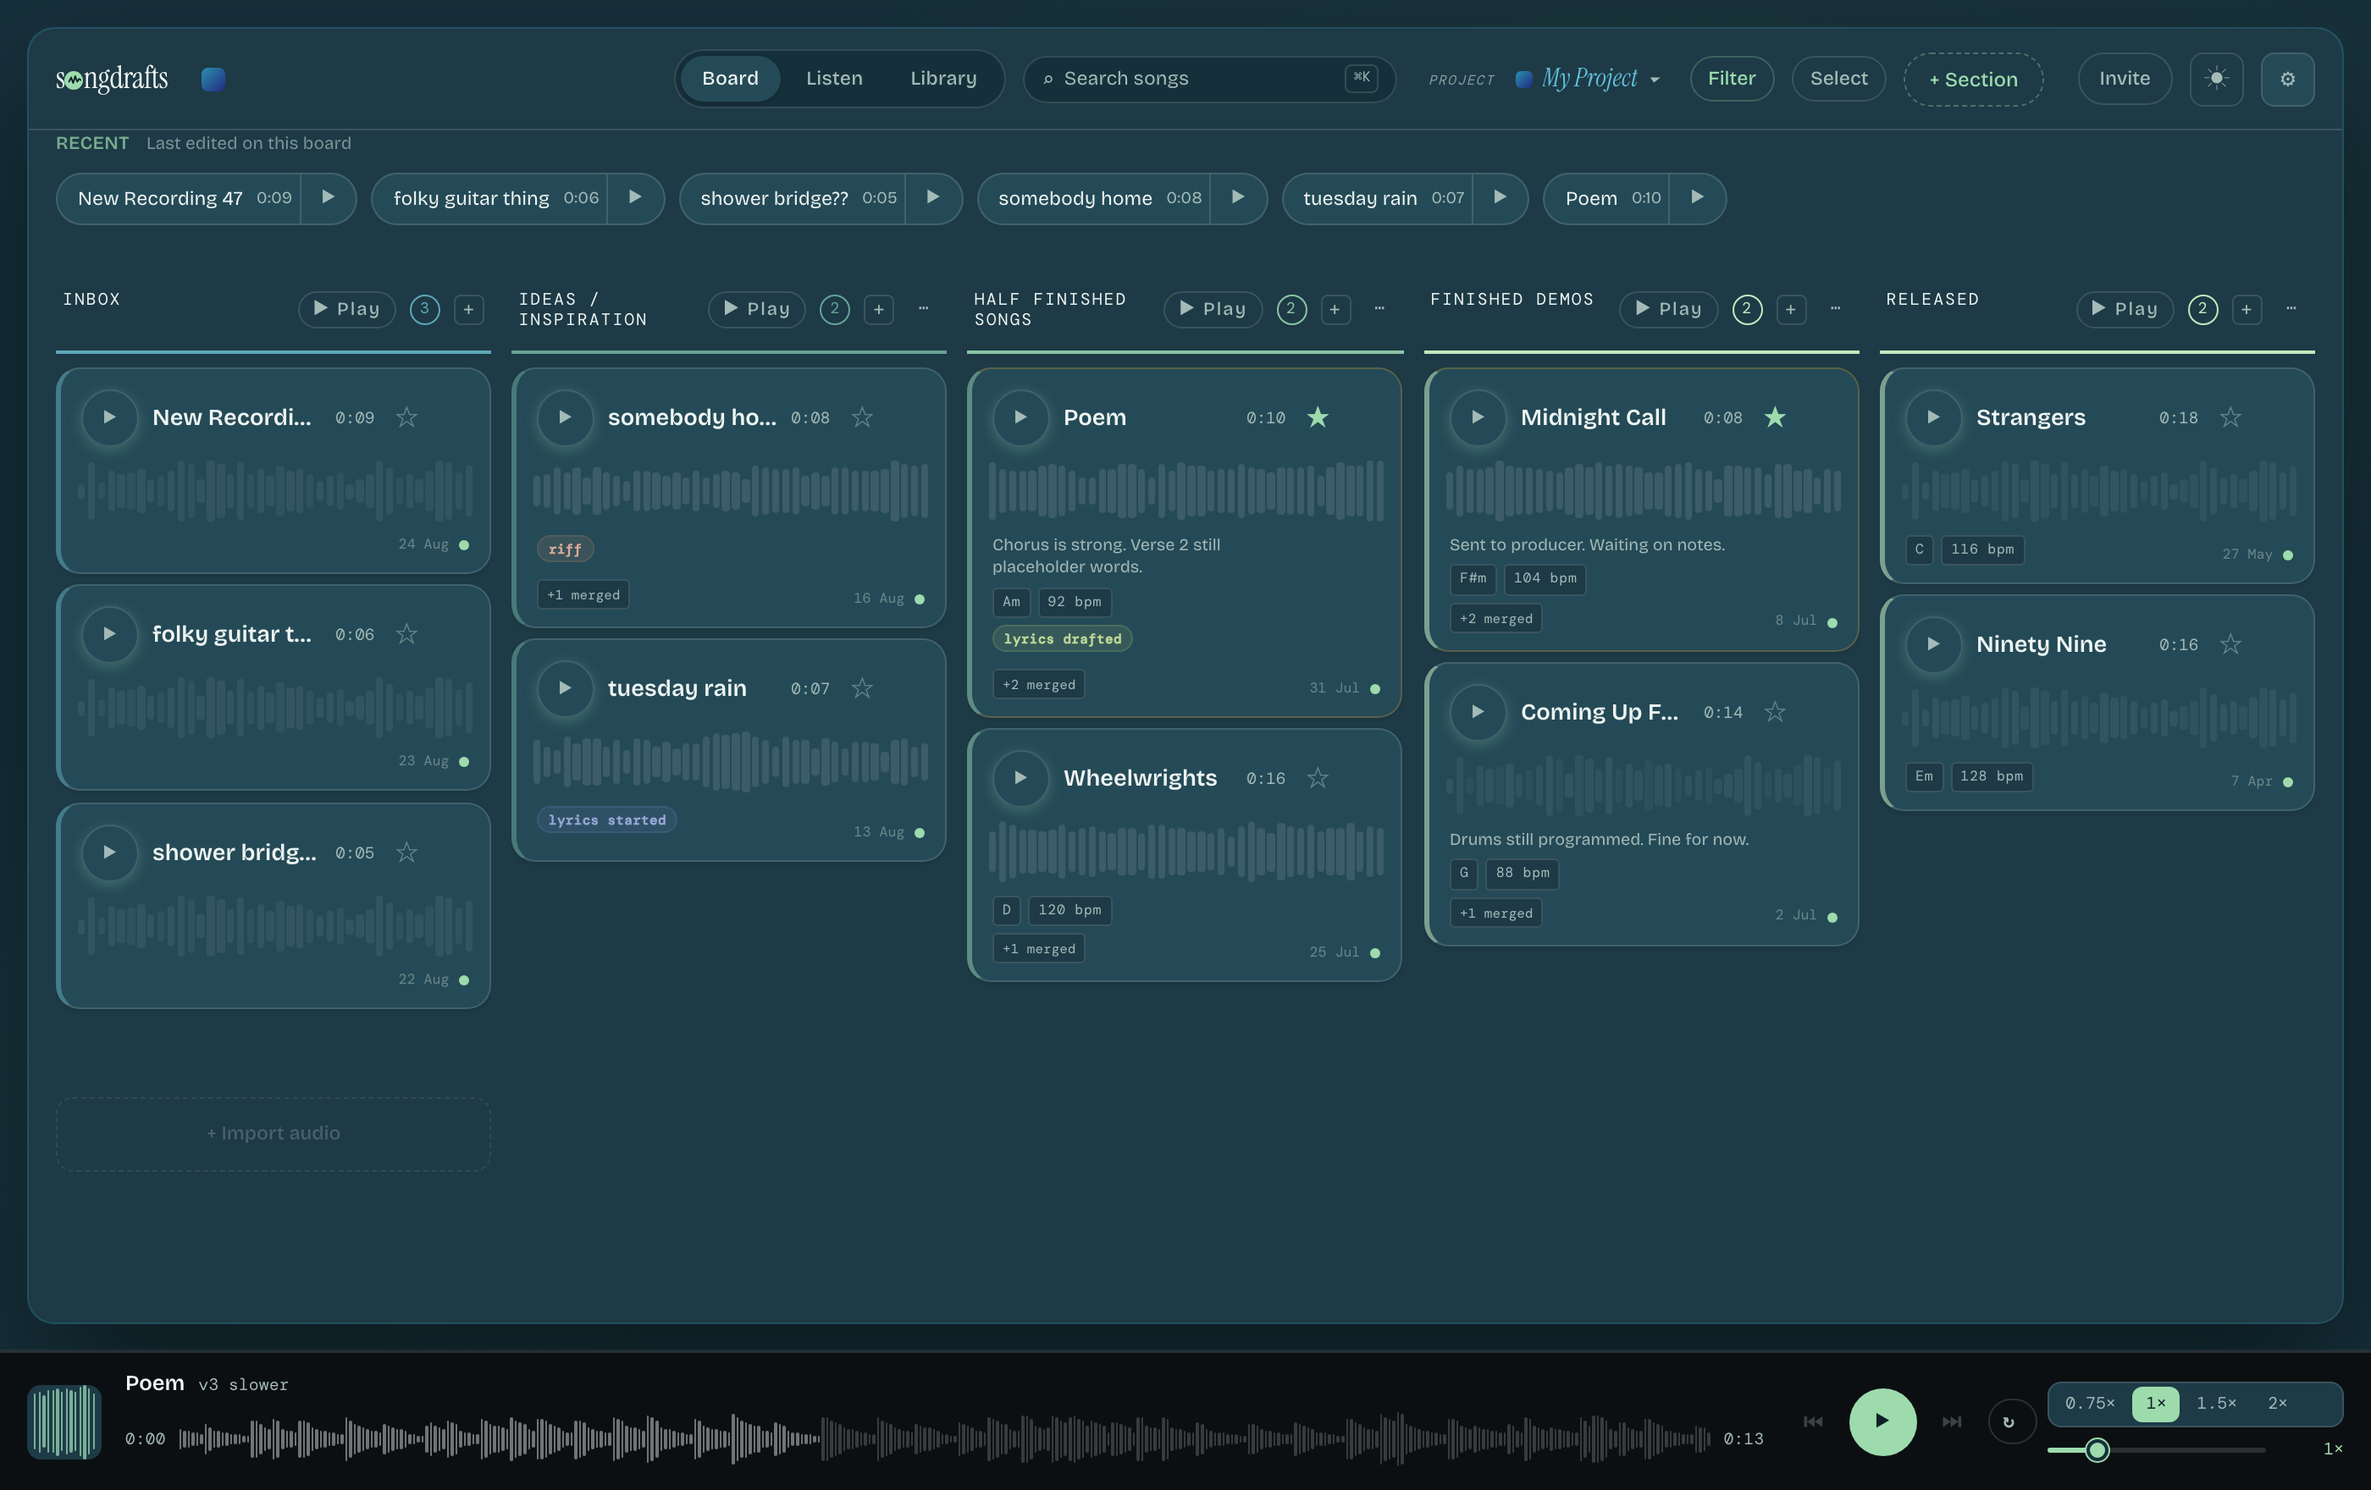
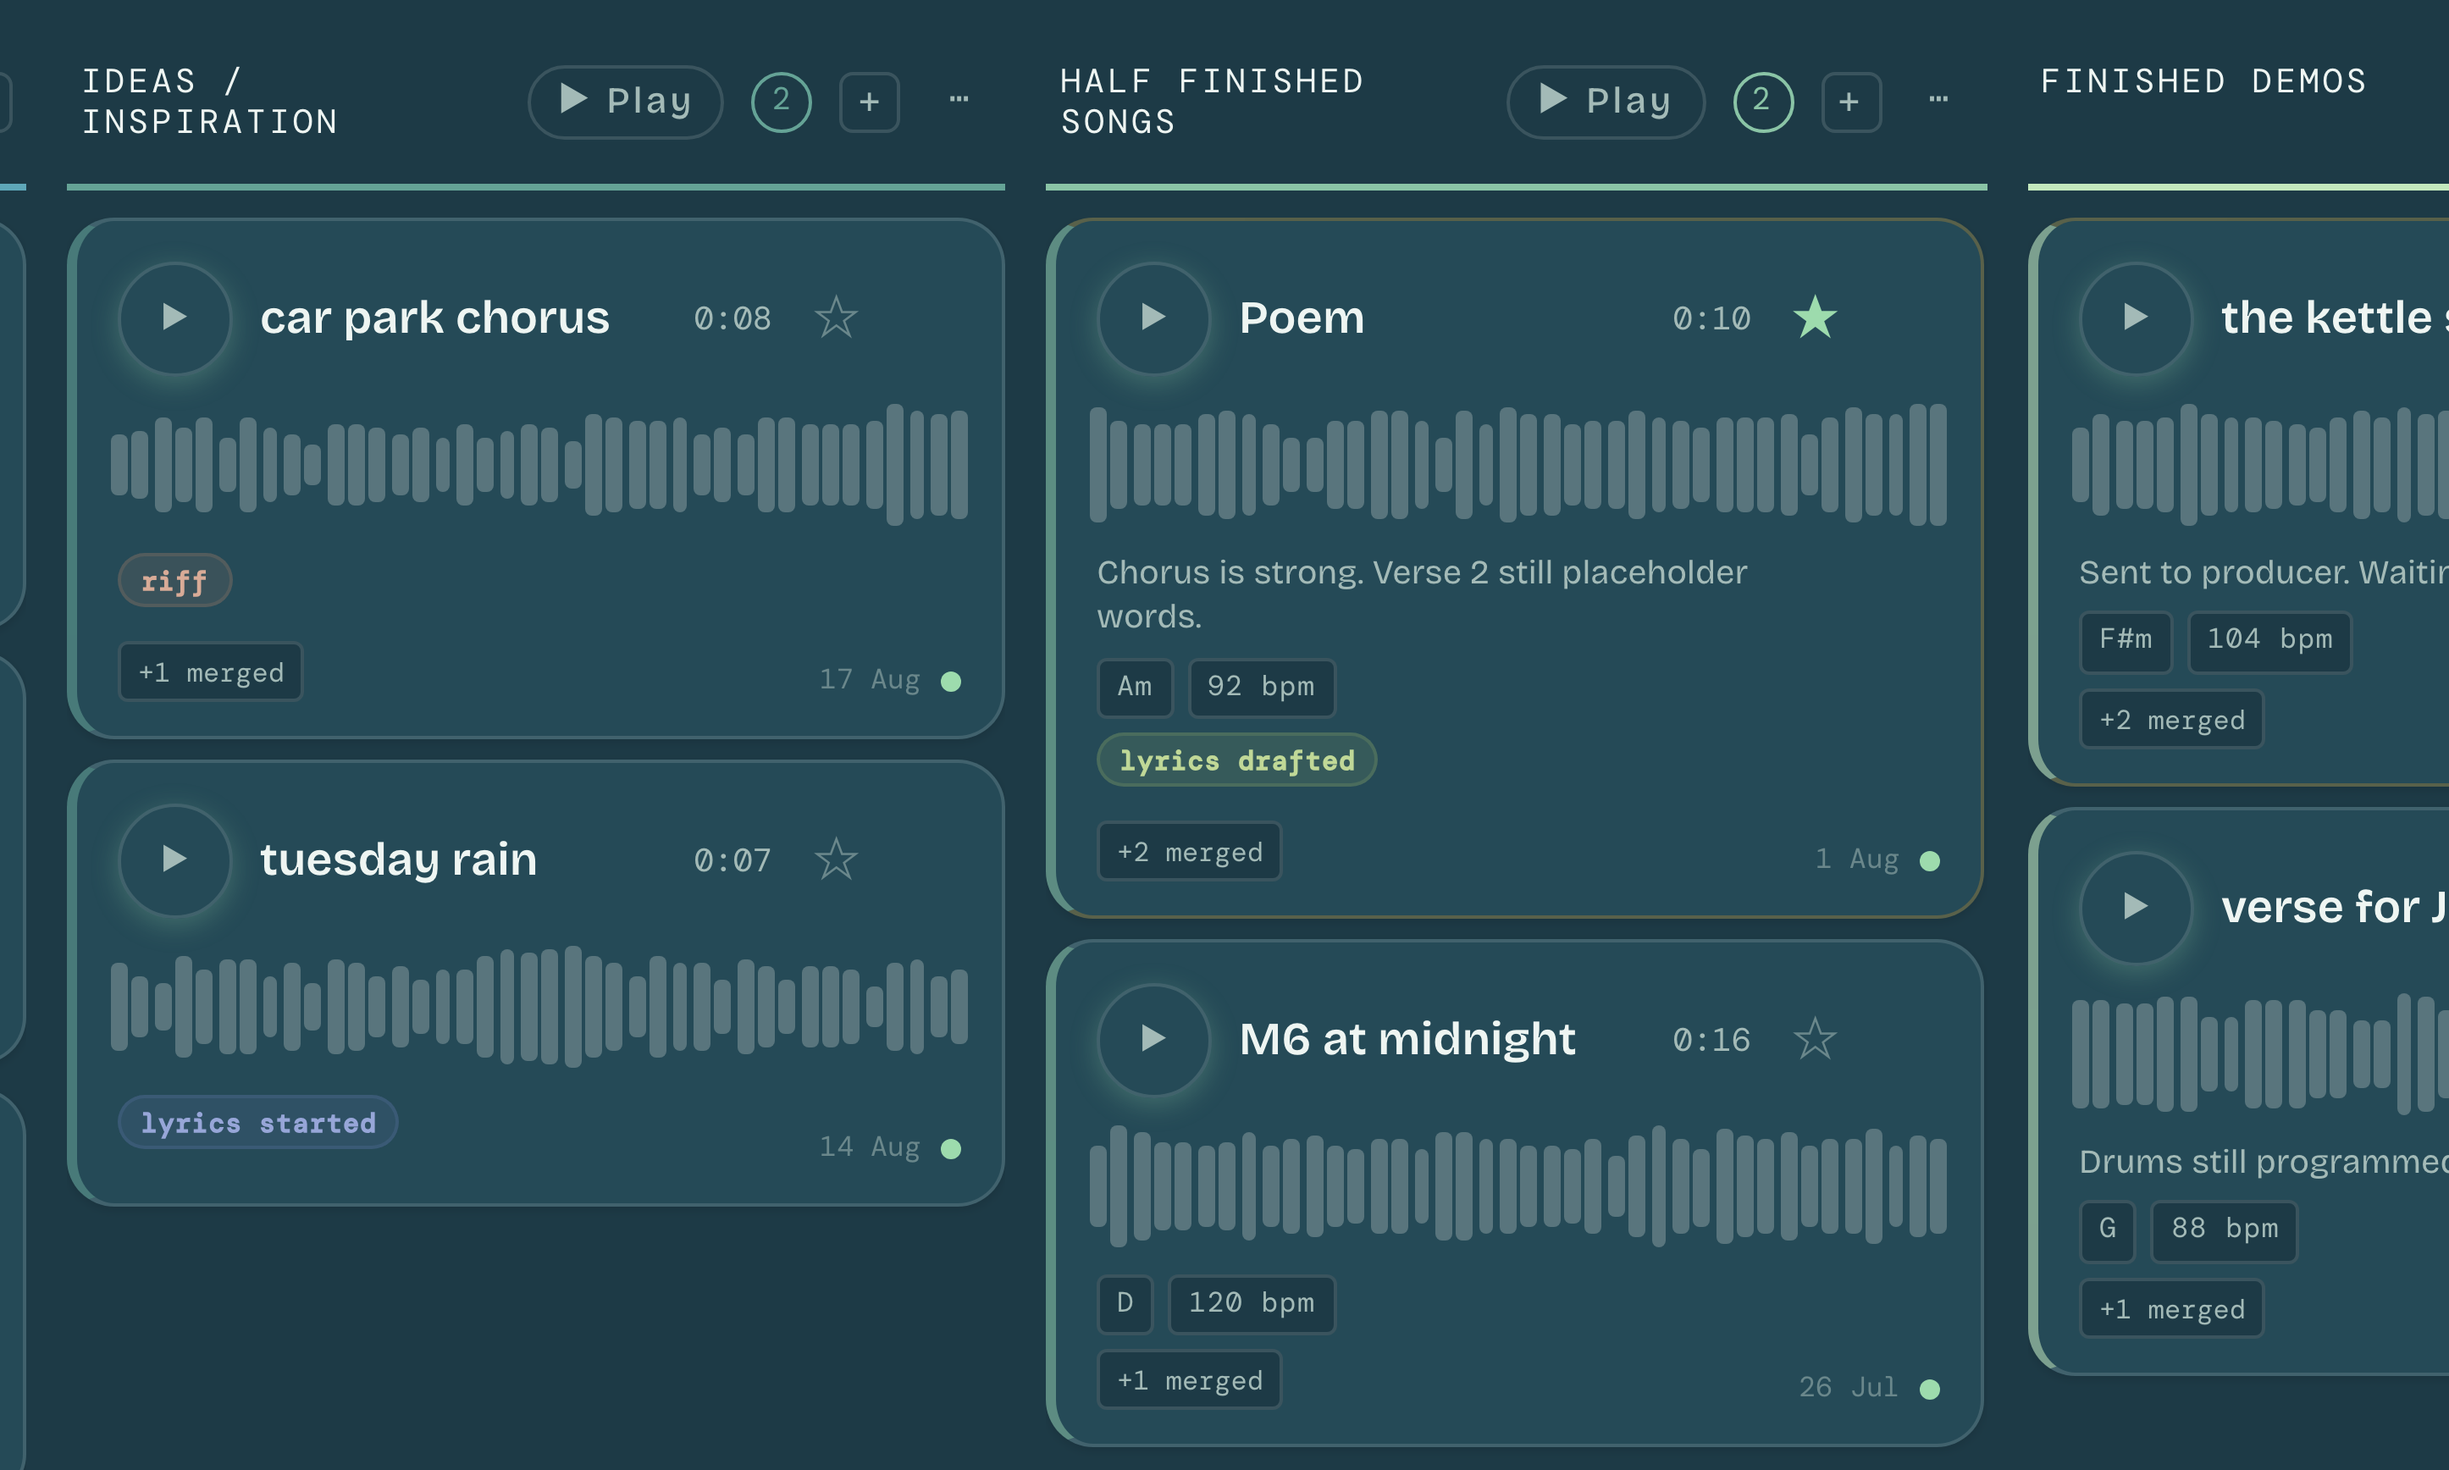
P0: one click plays, waveforms visible, light ramp readable
1. ONE CLICK MUST PLAY. Root cause found: ColumnPlayerBar's loadSource()
   resolved the URL and set audioRef.src, then never called play(), and
   nothing else did either. The first click only selected the song and
   left the element on the silent unlock placeholder; the second click hit
   the player bar's own toggle. That is why playback has always needed two
   clicks.

   Fixed at the funnel rather than in SongCard, so every entry point is
   covered at once — card play, column Play, Recent strip, playlists all
   route through the store into this effect. isPlaying is read from the
   store rather than closed over, so the effect does not re-run and
   re-load the source on every pause. A refused autoplay now sets
   isPlaying false instead of showing a play state that is not real.

   Verified in a real session, single click each:
     card play    paused:false readyState:4 t=0.78s  blob src, not placeholder
     column Play  paused:false readyState:4 t=1.10s
     Recent strip paused:false readyState:4 t=1.35s

2. WAVEFORMS. Two separate causes, both found:
   - .waveform-bar-idle was rgba(255,255,255,0.10), a leftover from the
     near-black era. 10% white is a ghost on slate.
   - the PLAYING card used Tailwind utilities bg-audio-mint /
     bg-audio-mint-dim, and bg-audio-mint-dim was never registered in the
     @theme block, so those bars rendered with NO background at all. That
     is the "unplayed bars fully invisible" report. Not opacity stacking.
[…]

diff --git a/src/styles/board.css b/src/styles/board.css
@@ -1629,9 +1629,12 @@ body.is-file-dragging * {
   -webkit-box-orient: vertical;
   overflow: hidden;
   min-width: 0;
-  overflow-wrap: anywhere;
-  word-break: normal;
-  hyphens: auto;
+  /* Break at word boundaries only. `overflow-wrap: anywhere` was splitting
+     INSPIRATION into "INSPIRATIO / N". A long word may overflow its box; that
+     is better than a word cut in half. */
+  overflow-wrap: normal;
+  word-break: keep-all;
+  hyphens: none;
   line-height: 1.25;
 }
 
@@ -1838,9 +1841,15 @@ html.light .song-card:hover {
   border-color: rgba(0,0,0,0.1);
 }
 
+/* The one accent element on the board: the card that is playing. A visible
+   celadon ring and lift, not a tint that reads olive against slate. The
+   stage-coloured left edge still shows through. */
 .song-card.is-active {
-  border-color: rgba(157, 219, 173, 0.4);
-  box-shadow: 0 0 0 1px rgba(157, 219, 173, 0.08), 0 2px 12px rgba(0, 0, 0, 0.2);
+  border-color: var(--accent);
+  box-shadow:
+    0 0 0 2px var(--accent-dim),
+    0 0 24px -6px var(--accent-glow),
+    0 6px 20px rgba(0, 0, 0, 0.35);
 }
 
 .song-card.is-dragging {
@@ -6749,8 +6758,8 @@ html.light .app-header {
 }
 
 html.light .song-card.is-active {
-  border-color: rgba(0, 184, 107, 0.4);
-  box-shadow: 0 0 0 1px rgba(0, 184, 107, 0.1);
+  border-color: var(--accent);
+  box-shadow: 0 0 0 2px var(--accent-dim), 0 6px 18px rgba(62, 52, 33, 0.14);
 }
 
 html.light .drag-overlay-card {
@@ -6820,8 +6829,7 @@ html.light .song-card:hover {
   box-shadow: 0 4px 12px rgba(0,0,0,0.1);
 }
 html.light .song-card.is-active {
-  box-shadow: 0 0 0 2px var(--audio-mint), 0 4px 12px rgba(0,0,0,0.08);
-  border-color: transparent;
+  box-shadow: 0 0 0 2px var(--accent), 0 6px 18px rgba(62, 52, 33, 0.14);
 }
 html.light .drag-overlay-card {
   box-shadow: 0 16px 48px rgba(0,0,0,0.2), 0 0 0 2px var(--audio-mint);
@@ -8773,3 +8781,32 @@ html[data-shot='1'] .pwa-update-banner {
   }
   .player-bar-controls { gap: var(--s-1); }
 }
+
+/* ─── Waveform bars: one definition, token-driven ───
+   Replaces .waveform-bar-idle/.waveform-bar-played (10% white, a leftover from
+   the near-black era that is a ghost on slate) and the two Tailwind colour
+   utilities that were never registered and rendered nothing. */
+.wf-bar {
+  flex: 1;
+  border-radius: 2px;
+  background: rgba(238, 245, 236, 0.26);
+}
+
+.wf-bar.is-played {
+  background: rgba(238, 245, 236, 0.55);
+}
+
+/* On the playing card the whole waveform takes the accent, so played vs
+   unplayed stays clearly distinct rather than one of them vanishing. */
+.wf-bar.is-active {
+  background: color-mix(in srgb, var(--accent) 34%, transparent);
+}
+
+.wf-bar.is-active.is-played {
+  background: var(--accent);
+}
+
+html.light .wf-bar { background: rgba(19, 42, 48, 0.34); }
+html.light .wf-bar.is-played { background: rgba(19, 42, 48, 0.62); }
+html.light .wf-bar.is-active { background: color-mix(in srgb, var(--accent) 30%, transparent); }
+html.light .wf-bar.is-active.is-played { background: var(--accent); }

diff --git a/src/db/devSeed.ts b/src/db/devSeed.ts
@@ -109,7 +109,7 @@ const DEMO_SONGS: DemoSong[] = [
   { title: 'folky guitar thing', column: 'inbox', versions: [{ label: 'folky guitar thing', seconds: 6 }], daysAgo: 2 },
   { title: 'shower bridge??', column: 'inbox', versions: [{ label: 'shower bridge??', seconds: 5 }], daysAgo: 3 },
   {
-    title: 'somebody home',
+    title: 'car park chorus',
     column: 'ideas',
     versions: [{ label: 'first hum', seconds: 8 }, { label: 'with chords', seconds: 11 }],
     tags: ['riff'],
@@ -132,7 +132,7 @@ const DEMO_SONGS: DemoSong[] = [
     daysAgo: 25,
   },
   {
-    title: 'Wheelwrights',
+    title: 'M6 at midnight',
     column: 'half-finished',
     versions: [{ label: 'full run through', seconds: 16 }, { label: 'alt chorus', seconds: 9 }],
     key: 'D',
@@ -140,7 +140,7 @@ const DEMO_SONGS: DemoSong[] = [
     daysAgo: 31,
   },
   {
-    title: 'Midnight Call',
+    title: 'the kettle song',
     column: 'finished-demos',
     versions: [
       { label: 'phone demo', seconds: 8 },
@@ -154,15 +154,15 @@ const DEMO_SONGS: DemoSong[] = [
     daysAgo: 48,
   },
   {
-    title: 'Coming Up For Air',
+    title: 'verse for June',
     column: 'finished-demos',
     versions: [{ label: 'demo mix', seconds: 14 }, { label: 'vocal up', seconds: 14 }],
     key: 'G', bpm: 88,
     notes: 'Drums still programmed. Fine for now.',
     daysAgo: 54,
   },
-  { title: 'Strangers', column: 'released', versions: [{ label: 'master', seconds: 18 }], key: 'C', bpm: 116, daysAgo: 90 },
-  { title: 'Ninety Nine', column: 'released', versions: [{ label: 'master', seconds: 16 }], key: 'Em', bpm: 128, daysAgo: 140 },
+  { title: 'glasgow bridge', column: 'released', versions: [{ label: 'master', seconds: 18 }], key: 'C', bpm: 116, daysAgo: 90 },
+  { title: 'half a hook', column: 'released', versions: [{ label: 'master', seconds: 16 }], key: 'Em', bpm: 128, daysAgo: 140 },
 ]
 
 /** True once the demo board has been written (idempotent across reloads). */

diff --git a/src/components/audio/ColumnPlayerBar.tsx b/src/components/audio/ColumnPlayerBar.tsx
@@ -158,6 +158,32 @@ export function ColumnPlayerBar() {
         audioRef.current.src = url
       }
       setAudioUrl(url)
+
+      /**
+       * Actually start playing.
+       *
+       * This step was missing entirely: loadSource armed the source and then
+       * nothing called play(), so the first click on a card only selected the
+       * song and left the element on the silent unlock placeholder. The second
+       * click hit the player bar's own toggle, which is why playback "needed
+       * two clicks" for as long as anyone can remember.
+       *
+       * Fixing it here rather than in SongCard covers every entry point at
+       * once — card play, column Play, the Recent strip, playlists — because
+       * they all funnel through the store into this effect.
+       *
+       * isPlaying is read from the store rather than closed over, so this
+       * effect does not re-run (and re-load the source) on every pause.
+       */
+      if (usePlayerStore.getState().isPlaying) {
+        try {
+          await audioRef.current.play()
+        } catch {
+          // Autoplay refused (no gesture, or the tab is backgrounded). Reflect
+          // reality in the UI rather than showing a play state that is not real.
+          if (!cancelled) setPlaying(false)
+        }
+      }
     }
 
     void loadSource()

diff --git a/src/styles/tokens.css b/src/styles/tokens.css
@@ -80,15 +80,16 @@ html.light {
   --accent-dim: rgba(23, 96, 74, 0.12);
   --accent-glow: rgba(23, 96, 74, 0.08);
 
-  /* Two of the specified light ramp values failed as text against the mist
-     ground, and the ramp is used for counts and header rules, which are text:
-       ideas #2a7a64 was 4.35:1, half #37835f was 3.87:1.
-     Nudged two points darker each, hue and saturation preserved, to clear
-     4.5:1. Reported back to the brand director. */
-  --stage-inbox: #25687a; /* 5.30:1 */
-  --stage-ideas: #297762; /* 4.52:1 (was #2a7a64, 4.35:1) */
-  --stage-half: #327756;  /* 4.53:1 (was #37835f, 3.87:1) */
-  --stage-done: #2e6b45;  /* 5.35:1 */
+  /* The light ramp has to separate on HUE, not lightness.
+     The previous four all sat at lightness 0.30-0.33 and read as one dark
+     teal: adjacent pairs were 1.00-1.18:1 apart, so the ramp carried no
+     information in mist at all. Hue steps were 29/13/8 degrees; they are now
+     27/42/54, walking cold blue -> teal -> green -> alive, and every value
+     still clears 4.5:1 on the mist ground. */
+  --stage-inbox: #2b6d8c; /* 4.82:1, hue 199 */
+  --stage-ideas: #12786b; /* 4.51:1, hue 172 */
+  --stage-half: #2f793c;  /* 4.51:1, hue 131 */
+  --stage-done: #597312;  /* 4.55:1, hue  76 */
 
   --success: var(--stage-done);
   --warning: #8a5a12;

diff --git a/src/components/audio/Waveform.tsx b/src/components/audio/Waveform.tsx
@@ -36,15 +36,18 @@ export function Waveform({
       {heights.map((height, index) => (
         <div
           key={index}
+          /**
+           * Real classes, not Tailwind colour utilities.
+           *
+           * This used bg-audio-mint / bg-audio-mint-dim, and neither was ever
+           * registered in the Tailwind theme, so the bars on a PLAYING card
+           * rendered with no background at all. Tokens in CSS cannot silently
+           * evaporate the way an unregistered utility class does.
+           */
           className={cn(
-            'flex-1 rounded-[2px]',
-            index < playedCount
-              ? active
-                ? 'bg-audio-mint'
-                : 'waveform-bar-played'
-              : active
-                ? 'bg-audio-mint-dim'
-                : 'waveform-bar-idle',
+            'wf-bar',
+            index < playedCount && 'is-played',
+            active && 'is-active',
           )}
           style={{ height: `${height}%` }}
         />
